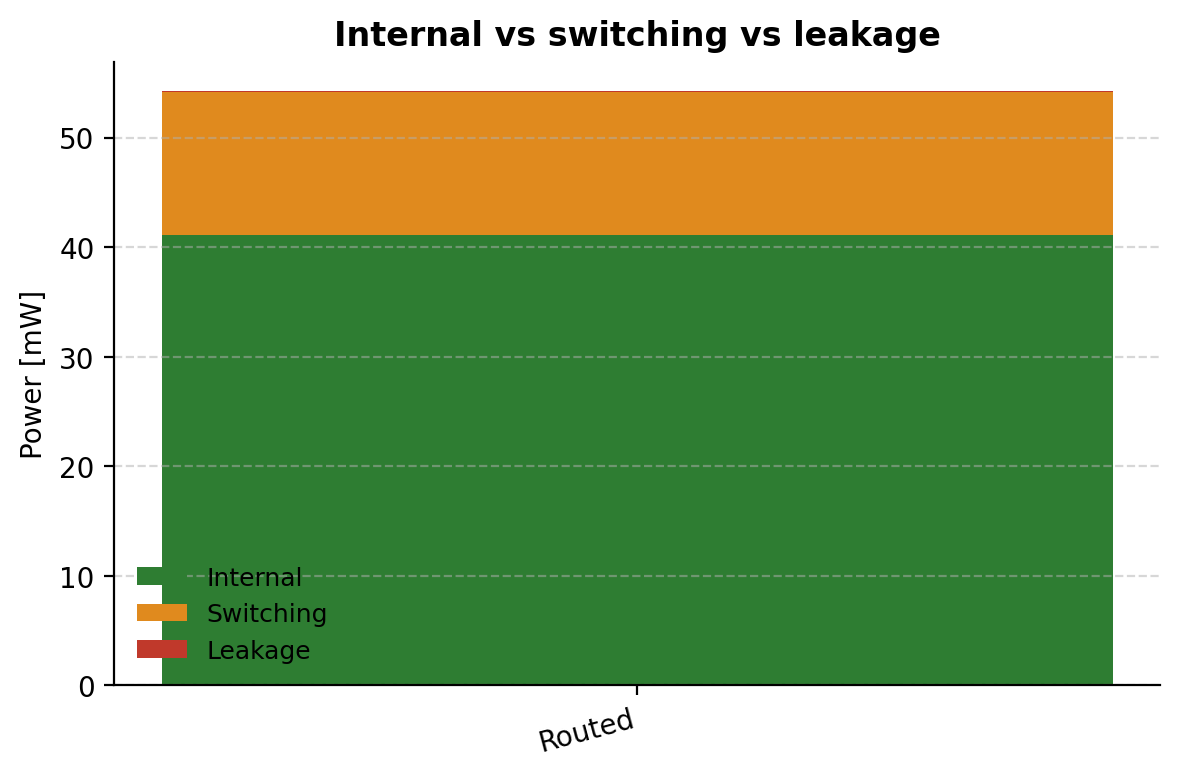
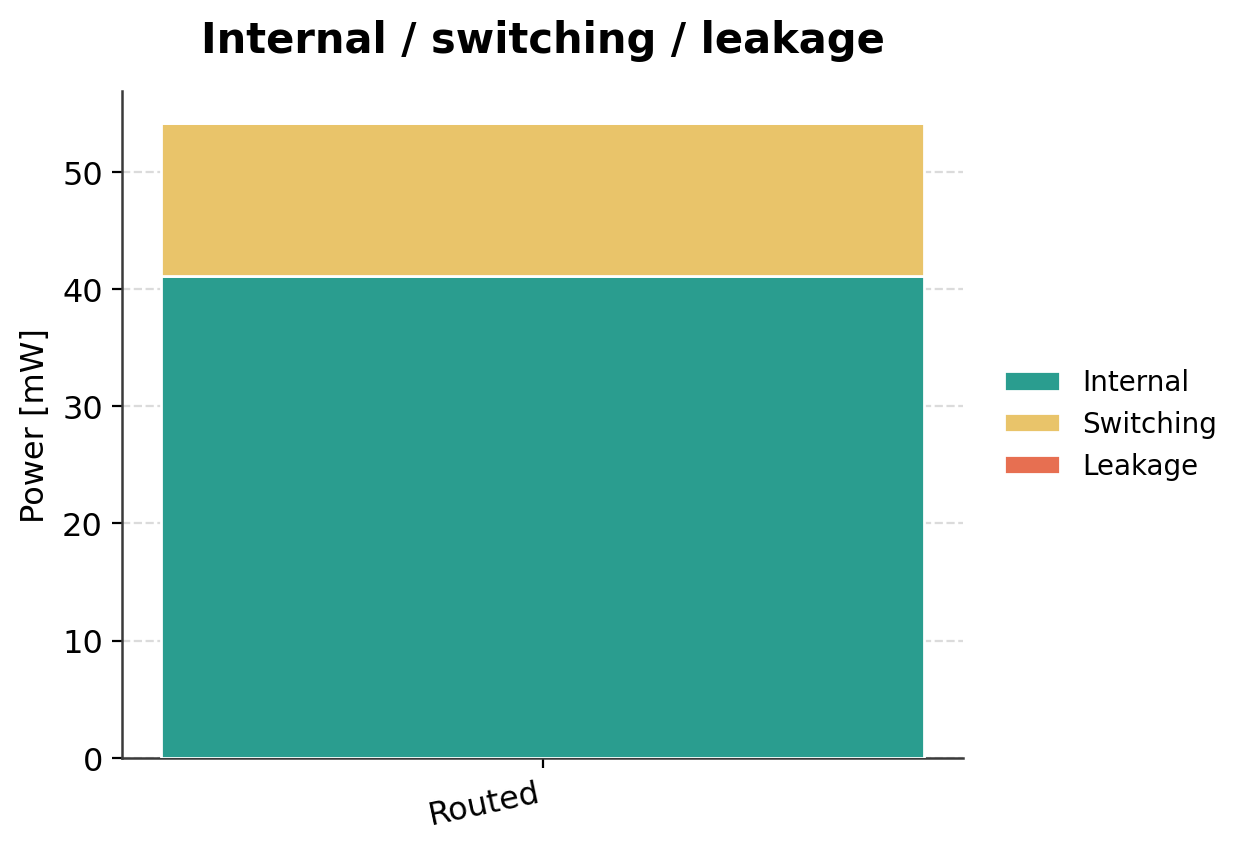
new Images and Plots

diff --git a/openroad/plot_results.py b/openroad/plot_results.py
@@ -1,40 +1,48 @@
 #!/usr/bin/env python3
-# Plot power (before/after across flow stages) and area for the Croc chip,
-# straight from standard OpenROAD report output (croc reports.tcl format).
-#
-# No dependency on the ex13 helper scripts. Just point it at the .rpt files.
+# Plot power and area for the Croc chip, straight from standard OpenROAD
+# report output (croc reports.tcl format). No ex13 helper-script dependency.
 #
 # Usage:
 #   python3 plot_results.py FILE [FILE ...]
 #
-# Each FILE may contain a report_power block, a "Design Area Summary", a
-# hierarchical area table, or any combination. The stage label is derived from
-# the filename, so files belonging to the same stage are merged.
-#
-# Example (before/after CTS):
-#   python3 plot_results.py reports/02_croc.placed.rpt reports/04_croc.routed.rpt
+# Each FILE may contain a report_power block, a "Design Area Summary", and/or
+# a hierarchical area table. Stage labels are derived from the filename, so
+# files belonging to the same stage are merged. Pass several stages (e.g. the
+# placed and routed reports) to get a before/after comparison.
 #
 # Outputs (PNG + PDF) into ./plots:
-#   power_total.*        total power per stage   (before/after headline)
-#   power_breakdown.*    stacked power by category per stage
-#   power_components.*   internal / switching / leakage per stage
-#   area_composition.*   die area split: std cell / macro / pad / fill
+#   power_by_category.*   one column per power category (latest stage)
+#   power_total.*         total power per stage (before/after, if >1 stage)
+#   power_components.*    internal / switching / leakage per stage
+#   area_composition.*    die area split: std cell / macro / pad / fill
 
 import argparse
 import os
 import re
+import numpy as np
 import matplotlib.pyplot as plt
 
-AREA_PER_GE = 7.25  # IHP sg13g2: 1 GE = 7.25 um^2
+# IHP sg13g2: gate-equivalent reference cell area (um^2). From the user's lib.
+AREA_PER_GE = 5.6448
 
-CAT_COLORS = {
-    "Sequential": "#1f6fb2", "Combinational": "#e08a1e",
-    "Clock": "#c0392b", "Macro": "#6c4f9c", "Pad": "#7f8c8d",
-}
-POWER_CATS = list(CAT_COLORS)
-COMP_COLORS = {"Std cell": "#1f6fb2", "Macro": "#6c4f9c",
-               "Pad": "#7f8c8d", "Fill": "#bdc3c7"}
-SPLIT_COLORS = {"Internal": "#2e7d32", "Switching": "#e08a1e", "Leakage": "#c0392b"}
+# --- one cohesive palette, reused across every figure -----------------------
+TEAL, GOLD, TERRA, SAGE, SLATE, GREY = (
+    "#2A9D8F", "#E9C46A", "#E76F51", "#8AB17D", "#577590", "#D9D9D9")
+POWER_PALETTE = {"Sequential": TEAL, "Combinational": GOLD,
+                 "Clock": TERRA, "Macro": SAGE, "Pad": SLATE}
+AREA_PALETTE = {"Pad": SLATE, "Std cell": TEAL, "Macro": TERRA, "Fill": GREY}
+POWER_CATS = list(POWER_PALETTE)
+
+plt.rcParams.update({
+    "font.size": 11.5,
+    "font.family": "DejaVu Sans",
+    "axes.titlesize": 15,
+    "axes.titleweight": "bold",
+    "axes.edgecolor": "#3a3a3a",
+    "axes.linewidth": 0.9,
+    "axes.grid": False,
+    "figure.dpi": 120,
+})
 
 NUM = r"([-+]?\d*\.?\d+(?:[eE][-+]?\d+)?)"
 
@@ -51,7 +59,6 @@ def stage_label(path):
 
 
 def parse_power(text):
-    """group -> {'internal','switching','leakage','total'} in Watts."""
     row = re.compile(
         r"^\s*(Sequential|Combinational|Clock|Macro|Pad|Total)\s+"
         + NUM + r"\s+" + NUM + r"\s+" + NUM + r"\s+" + NUM, re.MULTILINE)
@@ -65,7 +72,6 @@ def parse_power(text):
 
 
 def parse_area(text):
-    """Return dict with total_area, core_util, and composition (um^2)."""
     out = {}
     m = re.search(r"Total Area:\s+" + NUM, text)
     if m:
@@ -73,7 +79,6 @@ def parse_area(text):
     m = re.search(r"Core Utilization:\s+" + NUM, text)
     if m:
         out["core_util"] = float(m.group(1)) * 100
-    # Composition from the <top> row: Total StdCell Macro Cover Pad
     m = re.search(r"<top>\s+" + NUM + r"\s+" + NUM + r"\s+" + NUM
                   + r"\s+" + NUM + r"\s+" + NUM, text)
     if m:
@@ -82,7 +87,6 @@ def parse_area(text):
         out["Macro"] = float(m.group(3))
         out["Fill"] = float(m.group(4))
         out["Pad"] = float(m.group(5))
-    # Fallback: old "Design area X u^2 Y% utilization" format
     m = re.search(r"Design area\s+" + NUM + r"\s*u\^?2\s+" + NUM + r"\s*%", text)
     if m:
         out["total_area"] = float(m.group(1))
@@ -95,8 +99,7 @@ def collect(files):
     for path in files:
         with open(path) as f:
             text = f.read()
-        s = stages.setdefault(stage_label(path),
-                              {"power": {}, "area": {}})
+        s = stages.setdefault(stage_label(path), {"power": {}, "area": {}})
         s["power"].update(parse_power(text))
         s["area"].update(parse_area(text))
     return stages
@@ -104,87 +107,132 @@ def collect(files):
 
 def _save(fig, outdir, name):
     for ext in ("png", "pdf"):
-        fig.savefig(os.path.join(outdir, f"{name}.{ext}"), dpi=200, bbox_inches="tight")
+        fig.savefig(os.path.join(outdir, f"{name}.{ext}"), dpi=200,
+                    bbox_inches="tight", facecolor="white")
     print(f"  wrote plots/{name}.png and plots/{name}.pdf")
     plt.close(fig)
 
 
+def _bar_value_labels(ax, bars, fmt, pad_frac=0.02):
+    ymax = max((b.get_height() for b in bars), default=0)
+    for b in bars:
+        h = b.get_height()
+        ax.text(b.get_x() + b.get_width() / 2, h + ymax * pad_frac,
+                fmt(h), ha="center", va="bottom", fontsize=10.5, weight="bold")
+
+
+def plot_power_by_category(stages, outdir):
+    """One column per power category, for the most-final stage."""
+    cand = [(l, s) for l, s in stages.items()
+            if any(c in s["power"] for c in POWER_CATS)]
+    if not cand:
+        return
+    label, s = cand[-1]
+    cats = [c for c in POWER_CATS if c in s["power"]]
+    vals = [s["power"][c]["total"] * 1e3 for c in cats]
+    total = s["power"].get("Total", {}).get("total", sum(v / 1e3 for v in vals)) * 1e3
+
+    fig, ax = plt.subplots(figsize=(7.2, 4.6))
+    bars = ax.bar(cats, vals, color=[POWER_PALETTE[c] for c in cats],
+                  width=0.66, edgecolor="white", linewidth=1.2, zorder=3)
+    ax.set_ylabel("Power [mW]")
+    ax.set_title(f"Power by category  ({label})", pad=14)
+    ax.set_ylim(0, max(vals) * 1.18)
+    ax.spines[["top", "right"]].set_visible(False)
+    ax.yaxis.grid(True, linestyle="--", alpha=0.45, zorder=0)
+    ax.set_axisbelow(True)
+    _bar_value_labels(
+        ax, bars,
+        lambda h: f"{h:.1f} mW\n{h/total*100:.1f}%" if total else f"{h:.1f} mW",
+        pad_frac=0.015)
+    # No legend needed: the x-axis already names every column.
+    fig.tight_layout()
+    _save(fig, outdir, "power_by_category")
+
+
 def plot_total_power(stages, outdir):
     labels = [l for l, s in stages.items() if "Total" in s["power"]]
-    if not labels:
-        return
+    if len(labels) < 2:
+        return  # before/after only meaningful with multiple stages
     vals = [stages[l]["power"]["Total"]["total"] * 1e3 for l in labels]
-    fig, ax = plt.subplots(figsize=(6, 4))
-    bars = ax.bar(labels, vals, color="#1f6fb2")
+    fig, ax = plt.subplots(figsize=(6, 4.4))
+    bars = ax.bar(labels, vals, color=SLATE, width=0.6,
+                  edgecolor="white", linewidth=1.2, zorder=3)
     ax.set_ylabel("Total power [mW]")
-    ax.set_title("Total power across flow stages", fontweight="bold")
+    ax.set_title("Total power across flow stages", pad=14)
+    ax.set_ylim(0, max(vals) * 1.18)
     ax.spines[["top", "right"]].set_visible(False)
-    ax.grid(axis="y", linestyle="--", alpha=0.5)
-    for b, v in zip(bars, vals):
-        ax.text(b.get_x() + b.get_width()/2, v, f"{v:.1f}", ha="center", va="bottom", fontsize=9)
-    plt.xticks(rotation=15, ha="right")
-    fig.tight_layout(); _save(fig, outdir, "power_total")
-
-
-def plot_power_breakdown(stages, outdir):
-    labels = [l for l, s in stages.items()
-              if any(c in s["power"] for c in POWER_CATS)]
-    if not labels:
-        return
-    fig, ax = plt.subplots(figsize=(6.5, 4))
-    bottoms = [0.0]*len(labels)
-    for cat in POWER_CATS:
-        vals = [stages[l]["power"].get(cat, {}).get("total", 0.0)*1e3 for l in labels]
-        if not any(vals):
-            continue
-        ax.bar(labels, vals, bottom=bottoms, label=cat, color=CAT_COLORS[cat])
-        bottoms = [b+v for b, v in zip(bottoms, vals)]
-    ax.set_ylabel("Power [mW]")
-    ax.set_title("Power breakdown by category", fontweight="bold")
-    ax.spines[["top", "right"]].set_visible(False)
-    ax.grid(axis="y", linestyle="--", alpha=0.5)
-    ax.legend(frameon=False, fontsize=9)
-    plt.xticks(rotation=15, ha="right")
-    fig.tight_layout(); _save(fig, outdir, "power_breakdown")
+    ax.yaxis.grid(True, linestyle="--", alpha=0.45, zorder=0)
+    ax.set_axisbelow(True)
+    _bar_value_labels(ax, bars, lambda h: f"{h:.1f}")
+    plt.xticks(rotation=12, ha="right")
+    fig.tight_layout()
+    _save(fig, outdir, "power_total")
 
 
 def plot_power_components(stages, outdir):
     labels = [l for l, s in stages.items() if "Total" in s["power"]]
     if not labels:
         return
-    fig, ax = plt.subplots(figsize=(6, 4))
-    bottoms = [0.0]*len(labels)
-    for comp, key in (("Internal", "internal"), ("Switching", "switching"), ("Leakage", "leakage")):
-        vals = [stages[l]["power"]["Total"][key]*1e3 for l in labels]
-        ax.bar(labels, vals, bottom=bottoms, label=comp, color=SPLIT_COLORS[comp])
-        bottoms = [b+v for b, v in zip(bottoms, vals)]
+    comps = [("Internal", "internal", TEAL),
+             ("Switching", "switching", GOLD),
+             ("Leakage", "leakage", TERRA)]
+    fig, ax = plt.subplots(figsize=(6.4, 4.4))
+    bottoms = [0.0] * len(labels)
+    for name, key, color in comps:
+        vals = [stages[l]["power"]["Total"][key] * 1e3 for l in labels]
+        ax.bar(labels, vals, bottom=bottoms, label=name, color=color,
+               width=0.55, edgecolor="white", linewidth=1.0, zorder=3)
+        bottoms = [b + v for b, v in zip(bottoms, vals)]
     ax.set_ylabel("Power [mW]")
-    ax.set_title("Internal vs switching vs leakage", fontweight="bold")
+    ax.set_title("Internal / switching / leakage", pad=14)
     ax.spines[["top", "right"]].set_visible(False)
-    ax.grid(axis="y", linestyle="--", alpha=0.5)
-    ax.legend(frameon=False, fontsize=9)
-    plt.xticks(rotation=15, ha="right")
-    fig.tight_layout(); _save(fig, outdir, "power_components")
+    ax.yaxis.grid(True, linestyle="--", alpha=0.45, zorder=0)
+    ax.set_axisbelow(True)
+    ax.legend(frameon=False, fontsize=10, loc="center left",
+              bbox_to_anchor=(1.02, 0.5))
+    plt.xticks(rotation=12, ha="right")
+    fig.tight_layout()
+    _save(fig, outdir, "power_components")
 
 
 def plot_area_composition(stages, outdir):
-    # Use the most-final stage that has composition data.
     cand = [(l, s) for l, s in stages.items()
-            if all(k in s["area"] for k in ("Std cell", "Macro", "Pad", "Fill"))]
+            if all(k in s["area"] for k in AREA_PALETTE)]
     if not cand:
         return
     label, s = cand[-1]
     parts = ["Pad", "Std cell", "Macro", "Fill"]
     vals = [s["area"][p] for p in parts]
     total = sum(vals)
-    fig, ax = plt.subplots(figsize=(6, 6))
-    wedges, _txt, _auto = ax.pie(
-        vals, labels=parts, autopct=lambda p: f"{p:.1f}%",
-        colors=[COMP_COLORS[p] for p in parts],
-        startangle=90, wedgeprops=dict(width=0.45, edgecolor="w"))
-    ax.set_title(f"Die area composition ({label})\n"
-                 f"total {total/1e6:.2f} mm$^2$", fontweight="bold")
-    fig.tight_layout(); _save(fig, outdir, "area_composition")
+    logic_kge = s["area"]["Std cell"] / (AREA_PER_GE * 1e3)
+
+    fig, ax = plt.subplots(figsize=(7.4, 6.2))
+    wedges, _ = ax.pie(
+        vals, startangle=90, counterclock=False,
+        colors=[AREA_PALETTE[p] for p in parts],
+        wedgeprops=dict(width=0.42, edgecolor="white", linewidth=2.5))
+
+    # Name + percentage together, placed outside with leader lines.
+    kw = dict(arrowprops=dict(arrowstyle="-", color="#9a9a9a", lw=1),
+              zorder=0, va="center", fontsize=12.5)
+    for i, w in enumerate(wedges):
+        ang = (w.theta2 - w.theta1) / 2 + w.theta1
+        x, y = np.cos(np.deg2rad(ang)), np.sin(np.deg2rad(ang))
+        ha = "right" if x < 0 else "left"
+        kw["arrowprops"]["connectionstyle"] = f"angle,angleA=0,angleB={ang}"
+        ax.annotate(f"{parts[i]}\n{vals[i] / total * 100:.1f}%",
+                    xy=(x * 0.95, y * 0.95),
+                    xytext=(1.28 * np.sign(x), 1.18 * y),
+                    ha=ha, **kw)
+
+    ax.text(0, 0.08, f"{total / 1e6:.2f} mm²", ha="center", va="center",
+            fontsize=20, weight="bold", color="#2a2a2a")
+    ax.text(0, -0.16, f"logic ≈ {logic_kge:.0f} kGE", ha="center", va="center",
+            fontsize=12, color="#6a6a6a")
+    ax.set_title(f"Die area composition  ({label})", pad=22)
+    fig.tight_layout()
+    _save(fig, outdir, "area_composition")
 
 
 def main():
@@ -199,13 +247,13 @@ def main():
     print("Stages found:")
     for l, s in stages.items():
         tot = s["power"].get("Total", {}).get("total")
-        tot = f"{tot*1e3:.1f} mW" if tot else "no power"
+        tot = f"{tot * 1e3:.1f} mW" if tot else "no power"
         ar = s["area"].get("total_area")
-        ar = f"{ar/1e6:.2f} mm^2" if ar else "no area"
+        ar = f"{ar / 1e6:.2f} mm^2" if ar else "no area"
         print(f"  - {l}: {tot}, {ar}")
 
+    plot_power_by_category(stages, args.outdir)
     plot_total_power(stages, args.outdir)
-    plot_power_breakdown(stages, args.outdir)
     plot_power_components(stages, args.outdir)
     plot_area_composition(stages, args.outdir)
 